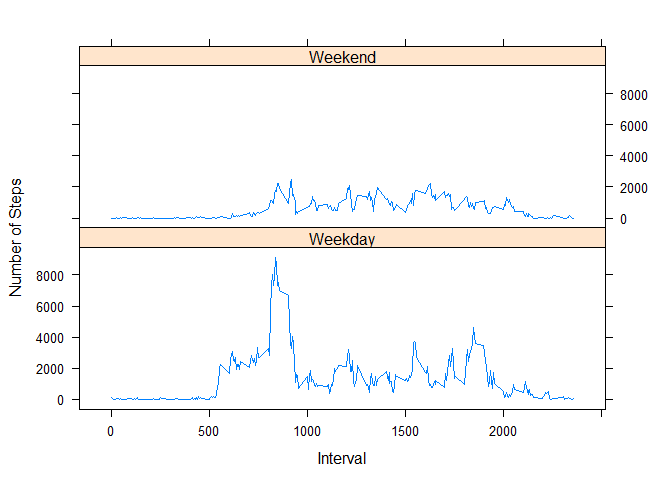
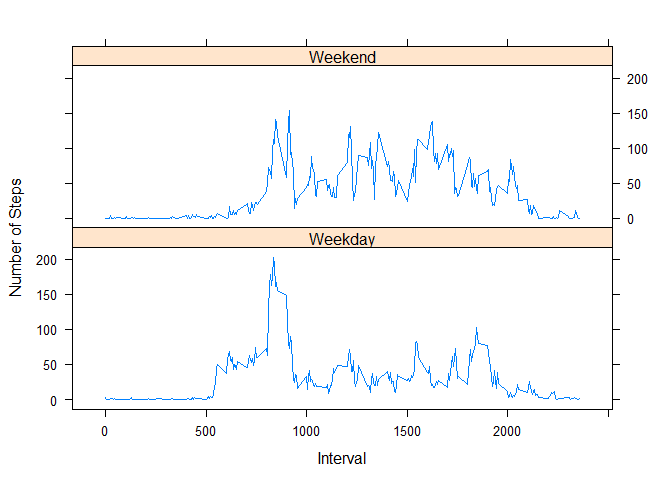
Updated Submission

diff --git a/PA1_template.html b/PA1_template.html
@@ -231,13 +231,13 @@ median(totalStepsPerDayFilledNA$x, na.rm = TRUE)</code></pre>
 <p>Now that we have created the weekday/weekend vector, we append it to the data set.</p>
 <pre class="r"><code>activity$dayOfWeek&lt;-daysOfWeek</code></pre>
 <p>Finally we want to average the data frame to obtain the average user step profile for a weekend and for a weekday.</p>
-<pre class="r"><code>totalStepsDayType&lt;-aggregate(activity$steps,list(activity$dayOfWeek,activity$interval),FUN=sum,na.rm=TRUE)</code></pre>
+<pre class="r"><code>totalStepsDayType&lt;-aggregate(activity$steps,list(activity$dayOfWeek,activity$interval),FUN=mean,na.rm=TRUE)</code></pre>
 <p>Finally, we make a lattice plot to display the results of the averaged activity across the type of day. We note from the plots that the user is significantly less active on the weekends and in particular on the weekend mornings.</p>
 <pre class="r"><code>xyplot(x~Group.2|Group.1,
        data = totalStepsDayType,
        type='l',layout=c(1,2),
        xlab='Interval',ylab='Number of Steps')</code></pre>
[2 lines of base64/hex data omitted]
 </div>
 
 

diff --git a/PA1_template.md b/PA1_template.md
@@ -225,7 +225,7 @@ activity$dayOfWeek<-daysOfWeek
 Finally we want to average the data frame to obtain the average user step profile for a weekend and for a weekday.
 
 ```r
-totalStepsDayType<-aggregate(activity$steps,list(activity$dayOfWeek,activity$interval),FUN=sum,na.rm=TRUE)
+totalStepsDayType<-aggregate(activity$steps,list(activity$dayOfWeek,activity$interval),FUN=mean,na.rm=TRUE)
 ```
 
 Finally, we make a lattice plot to display the results of the averaged activity across the type of day. We note from the plots that the user is significantly less active on the weekends and in particular on the weekend mornings.
